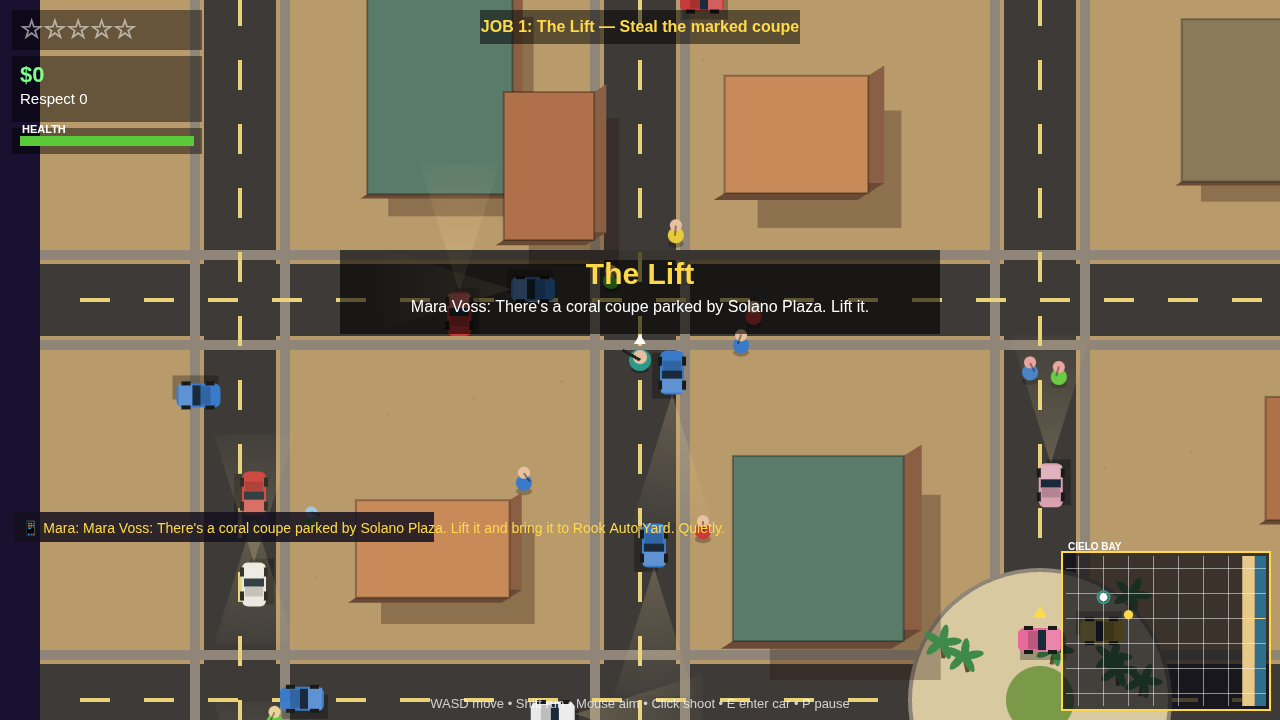
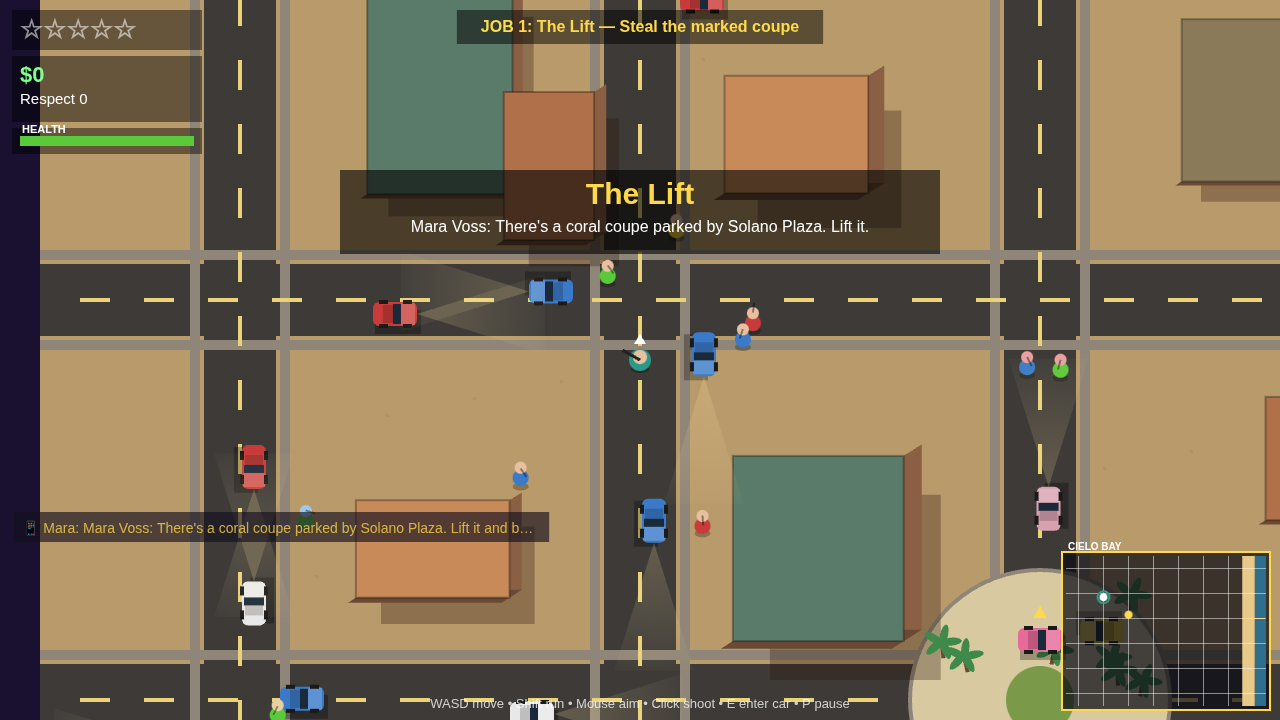
Final polish: toast truncation, final screenshots + dossier verified

diff --git a/game/src/hud.js b/game/src/hud.js
@@ -156,7 +156,8 @@ function drawToasts(ctx, G, W, H) {
   let y = H - 190;
   for (const t of G.toasts) {
     const alpha = Math.min(1, t.t / 0.5, (t.life - t.t) / 0.5);
-    const display = (t.fromMara ? '📱 Mara: ' : '') + t.text;
+    let display = (t.fromMara ? '📱 Mara: ' : '') + t.text;
+    if (display.length > 82) display = display.slice(0, 79) + '…';
     ctx.save();
     ctx.globalAlpha = Math.max(0, alpha);
     ctx.fillStyle = 'rgba(20,16,30,0.85)';
